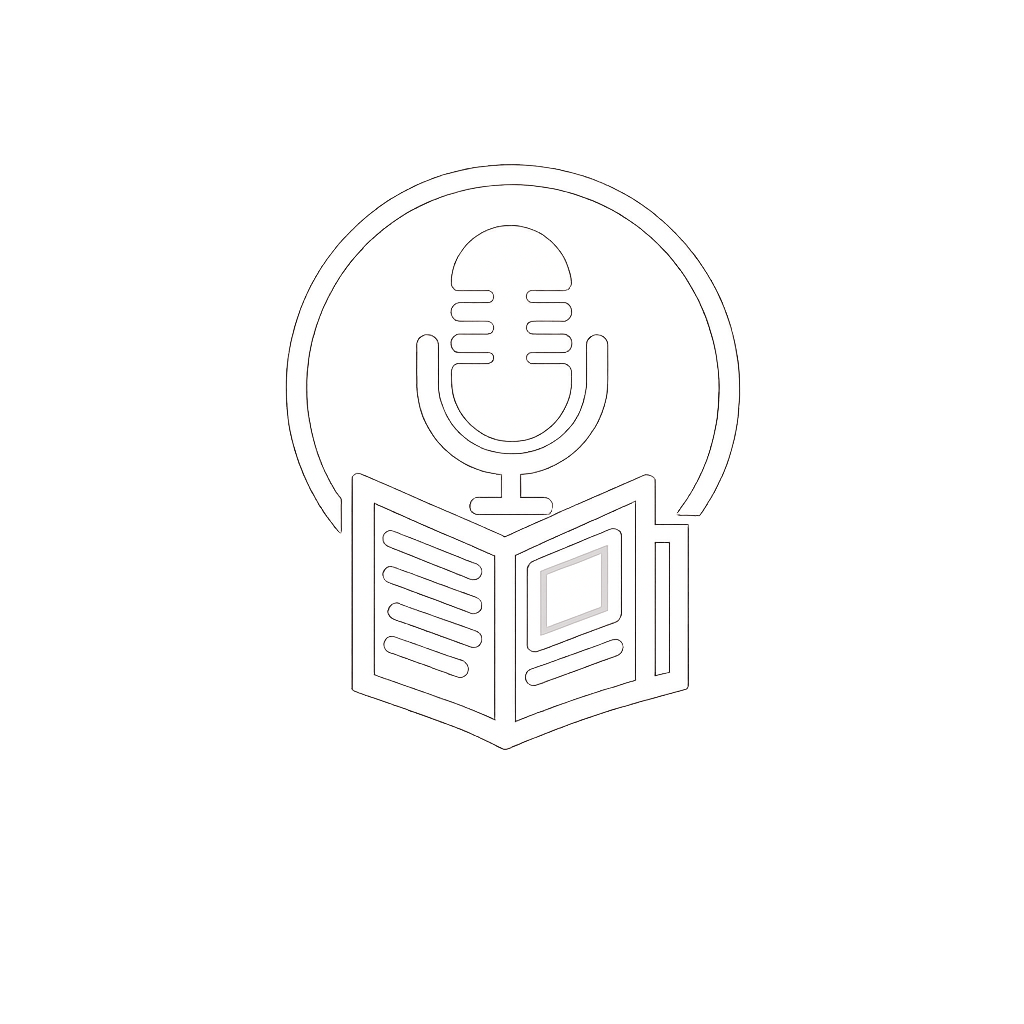
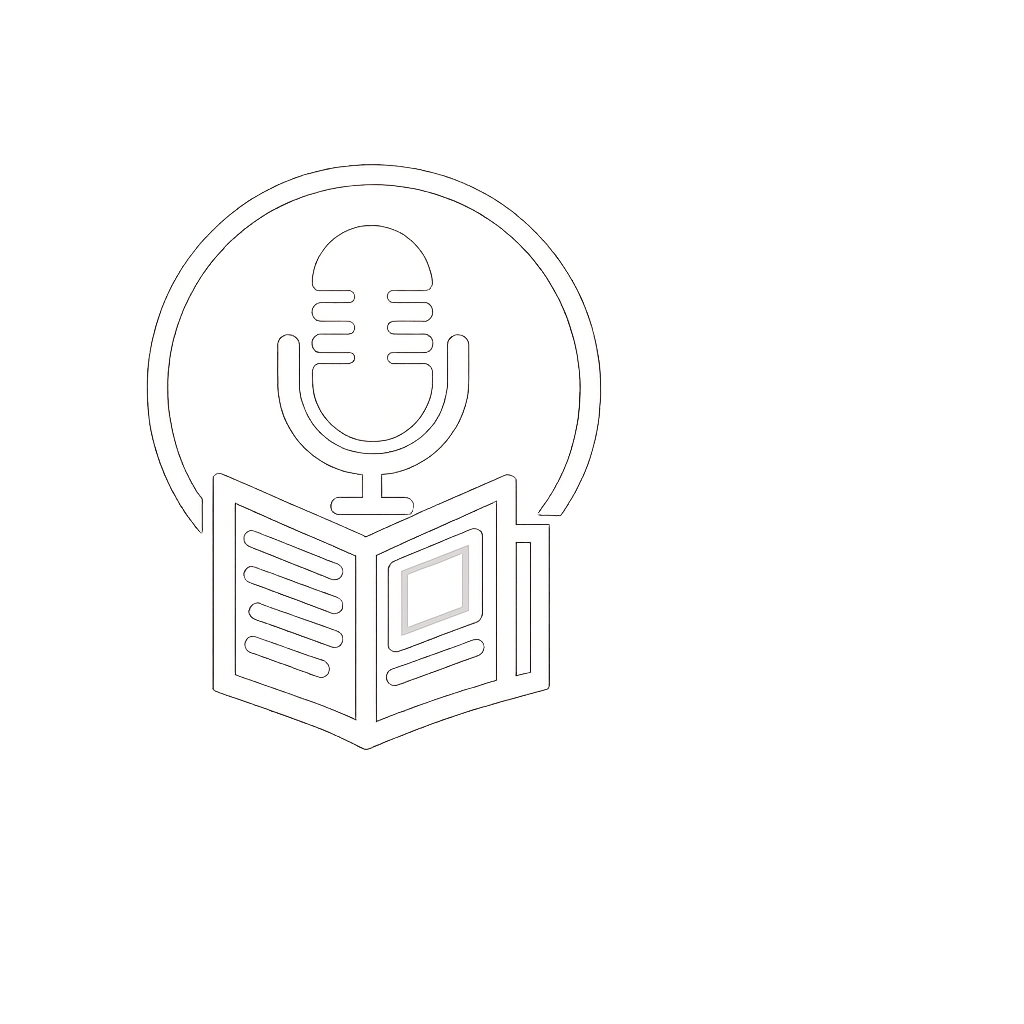
backup

diff --git a/desktop/src/main/main.ts b/desktop/src/main/main.ts
@@ -100,6 +100,58 @@ function resolveMenuIconPath(): string | undefined {
   return candidates.find((p) => fs.existsSync(p));
 }
 
+function cropMenuIconToLogo(image: Electron.NativeImage): Electron.NativeImage {
+  const { width, height } = image.getSize();
+  const bitmap = Buffer.from(image.getBitmap());
+  const alphaThreshold = 10;
+
+  let minX = width;
+  let minY = height;
+  let maxX = -1;
+  let maxY = -1;
+
+  for (let y = 0; y < height; y += 1) {
+    for (let x = 0; x < width; x += 1) {
+      const idx = (y * width + x) * 4;
+      const alpha = bitmap[idx + 3];
+      if (alpha >= alphaThreshold) {
+        if (x < minX) minX = x;
+        if (y < minY) minY = y;
+        if (x > maxX) maxX = x;
+        if (y > maxY) maxY = y;
+      }
+    }
+  }
+
+  if (maxX < minX || maxY < minY) {
+    return image;
+  }
+
+  // Keep a healthy margin around the visible logo so the tray icon is not
+  // rendered too large. Center the crop on the logo itself rather than using
+  // the source image edges.
+  const cropMargin = 140;
+  const cropSide = Math.min(
+    width,
+    height,
+    Math.max(maxX - minX + 1, maxY - minY + 1) + cropMargin
+  );
+  const contentCenterX = (minX + maxX) / 2;
+  const contentCenterY = (minY + maxY) / 2;
+
+  let cropX = Math.round(contentCenterX - cropSide / 2);
+  let cropY = Math.round(contentCenterY - cropSide / 2);
+  cropX = Math.max(0, Math.min(width - cropSide, cropX));
+  cropY = Math.max(0, Math.min(height - cropSide, cropY));
+
+  return image.crop({
+    x: cropX,
+    y: cropY,
+    width: cropSide,
+    height: cropSide,
+  });
+}
+
 function createTray(): void {
   const menuIconPath = resolveMenuIconPath();
   let trayIcon: Electron.NativeImage;
@@ -107,7 +159,19 @@ function createTray(): void {
   // Use the dedicated menu-bar icon asset.
   if (menuIconPath) {
     const sourceIcon = nativeImage.createFromPath(menuIconPath);
-    trayIcon = sourceIcon.resize({ width: 36, height: 36 });
+    const croppedIcon = cropMenuIconToLogo(sourceIcon);
+    const TRAY_ICON_SIZE = 24;
+    trayIcon = nativeImage.createEmpty();
+    for (const scaleFactor of [1, 2]) {
+      const px = TRAY_ICON_SIZE * scaleFactor;
+      const resized = croppedIcon.resize({ width: px, height: px, quality: "best" });
+      trayIcon.addRepresentation({
+        scaleFactor,
+        width: px,
+        height: px,
+        buffer: resized.toPNG(),
+      });
+    }
   } else {
     trayIcon = nativeImage.createEmpty();
   }

diff --git a/desktop/frontend/src/app/HomeClient.tsx b/desktop/frontend/src/app/HomeClient.tsx
@@ -955,7 +955,7 @@ export default function Home() {
     return (
       <div className={`w-full min-h-screen bg-gradient-to-br from-indigo-900/90 to-purple-900/90 text-white ${isTauri ? 'mt-8' : ''}`}>
         <header className=" backdrop-blur-md ">
-          <div className="container mx-auto px-4 py-4 flex justify-between items-center">
+          <div className="w-full px-2 sm:px-4 py-4 flex justify-between items-center">
             <div className="flex items-center gap-2">
               {/* <Link href="/" className="text-2xl font-bold text-white">BriefCast</Link> */}
             </div>
@@ -977,7 +977,7 @@ export default function Home() {
             </div>
           </div>
         </header>
-        <main className="h-screen container max-w-6xl mx-auto px-4 pt-4 pb-12 relative z-10">
+        <main className="h-screen w-full px-0 pt-4 pb-12 relative z-10">
         {/* {!isTauri &&
           <h1 className="text-4xl font-bold mb-12 text-center bg-gradient-to-r from-amber-500 to-amber-600 text-transparent bg-clip-text">
             BriefCast
@@ -1114,8 +1114,8 @@ export default function Home() {
       {/* <main className="container max-w-6xl mx-auto px-4 py-12 relative z-10"> */}
       <div className={`w-full min-h-screen bg-gradient-to-br from-indigo-900/90 to-purple-900/90 text-white ${isTauri ? 'mt-8' : ''}`}>
         <header className=" backdrop-blur-md ">
-          <div className="container mx-auto px-4 py-4 flex justify-between items-center">
-            <div className="flex items-center gap-2 ml-16">
+          <div className="w-full px-2 sm:px-4 py-4 flex justify-between items-center">
+            <div className="flex items-center gap-2">
               {/* <Link href="/" className="text-2xl font-bold text-white">BriefCast</Link> */}
             </div>
             <div className="flex items-center gap-4">
@@ -1136,14 +1136,14 @@ export default function Home() {
             </div>
           </div>
         </header>
-        <main className="container max-w-6xl mx-auto px-4 pt-4 pb-12 relative z-10">
+        <main className="w-full px-0 pt-4 pb-12 relative z-10">
         {/* {!isTauri &&
           <h1 className="text-4xl font-bold mb-12 text-center bg-gradient-to-r from-amber-500 to-amber-600 text-transparent bg-clip-text">
             BriefCast
           </h1>} */}
           
           <div 
-            className="backdrop-blur-xl bg-gradient-to-br from-black/10 to-black/30 rounded-2xl p-8 mx-auto border border-white/20 shadow-lg"
+            className="w-full backdrop-blur-xl bg-gradient-to-br from-black/10 to-black/30 rounded-none p-4 border border-white/20 shadow-lg"
             style={{
               boxShadow: `0 20px 50px rgba(0,0,0,0.3), 
                           0 -5px 20px rgba(${colors.primary.match(/\d+/g)?.[0] || 0}, 
@@ -1152,14 +1152,14 @@ export default function Home() {
               backdropFilter: "blur(20px)",
             }}
           >
-            <div className="grid grid-cols-1 md:grid-cols-2 gap-8 relative ">
+            <div className="grid grid-cols-1 md:grid-cols-2 gap-4 relative">
               {/* Player View */}
               {(mobileView === 'player' || window.innerWidth >= 768) && (
                 <div ref={playerContainerRef} className="mb-10 md:mb-0 relative pb-16 md:pb-0">
                   <div className="flex-grow">
                     <div className="flex flex-col gap-6 mb-6">
                       {/* Cover image */}
-                      <div className="relative group w-full max-w-md mx-auto aspect-square overflow-hidden rounded-xl shadow-xl">
+                      <div className="relative group w-full aspect-square overflow-hidden rounded-xl shadow-xl">
                         <Image
                           src={getCoverImageUrl(displayImage)}
                           alt={`${displayTitle} Cover`}

diff --git a/desktop/frontend/src/app/layout.tsx b/desktop/frontend/src/app/layout.tsx
@@ -3,7 +3,6 @@ import { Suspense, useEffect, useState } from 'react';
 import { PlayerProvider } from '@/context/PlayerContext';
 import { backendUrl } from '@/utils/backendUrl';
 import './globals.css';
-import { Inter } from 'next/font/google';
 
 // Electron passes --localstorage-file to its Node.js runtime. When that flag
 // has no valid path (e.g. during Next.js SSR), it installs a broken
@@ -15,8 +14,6 @@ if (typeof globalThis !== 'undefined') {
     try { delete (globalThis as any).localStorage; } catch (_) {}
   }
 }
-
-const inter = Inter({ subsets: ['latin'] });
 
 function ProviderStatusBanner() {
   const [warning, setWarning] = useState<string | null>(null);
@@ -50,7 +47,7 @@ export default function RootLayout({
 }) {
   return (
     <PlayerProvider>
-      <html lang="en" className="h-full w-full rounded-2xl">
+      <html lang="en" className="h-full w-full">
         <head>
           <meta name="viewport" content="width=device-width, initial-scale=1, user-scalable=no" />
           <meta name="apple-mobile-web-app-capable" content="yes" />
@@ -60,10 +57,10 @@ export default function RootLayout({
           <meta httpEquiv="Pragma" content="no-cache" />
           <meta httpEquiv="Expires" content="0" />
         </head>
-        <body className="h-full w-full bg-white">
+        <body className="h-full w-full bg-white overflow-hidden">
           <ProviderStatusBanner />
           <div className="electron-drag-region" aria-hidden="true" />
-          <div className="h-full w-full bg-white shadow-xl flex flex-col rounded-2xl">
+          <div className="h-full w-full bg-white flex flex-col">
             <div className="flex-1 overflow-y-auto">
               <Suspense fallback={<div>Loading...</div>}>
                 {children}

diff --git a/desktop/frontend/src/app/downloads/page.tsx b/desktop/frontend/src/app/downloads/page.tsx
@@ -365,7 +365,7 @@ export default function DownloadsPage() {
   return (
     <div className={`min-h-screen bg-gradient-to-br from-indigo-900/90 to-purple-900/90 text-white ${tauri ? 'mt-8' : ''}`}>
       <header className="bg-white/10 backdrop-blur-md shadow-lg">
-        <div className="container mx-auto px-4 py-4 flex justify-between items-center">
+        <div className="w-full px-2 sm:px-4 py-4 flex justify-between items-center">
           <div className="flex items-center gap-2">
             {/* <Link href="/" className="text-2xl font-bold text-white">BriefCast</Link> */}
           </div>
@@ -379,10 +379,10 @@ export default function DownloadsPage() {
         </div>
       </header>
       
-      <main className="container mx-auto px-4 py-8">
+      <main className="w-full px-2 sm:px-4 lg:px-6 py-8">
         {/* Search Bar */}
         <div className="mb-8">
-          <div className="relative max-w-2xl mx-auto">
+          <div className="relative w-full">
             <input
               type="text"
               placeholder="Search your downloads..."

diff --git a/desktop/frontend/src/app/history/page.tsx b/desktop/frontend/src/app/history/page.tsx
@@ -177,7 +177,7 @@ export default function HistoryPage() {
   return (
     <div className={`min-h-screen bg-gradient-to-br from-indigo-900/90 to-purple-900/90 text-white`}>
       <header className="bg-white/10 backdrop-blur-md shadow-lg">
-        <div className="container mx-auto px-4 py-4 flex justify-between items-center">
+        <div className="w-full px-2 sm:px-4 py-4 flex justify-between items-center">
           <div className="flex items-center gap-2">
             {/* <Link href="/" className="text-2xl font-bold text-white">BriefCast</Link> */}
           </div>
@@ -191,10 +191,10 @@ export default function HistoryPage() {
         </div>
       </header>
       
-      <main className="container mx-auto px-4 py-8">
+      <main className="w-full px-2 sm:px-4 lg:px-6 py-8">
         {/* Search Bar */}
         <div className="mb-8">
-          <div className="relative max-w-2xl mx-auto">
+          <div className="relative w-full">
             <input
               type="text"
               placeholder="Search your history..."

diff --git a/desktop/frontend/src/app/library/page.tsx b/desktop/frontend/src/app/library/page.tsx
@@ -477,7 +477,7 @@ export default function LibraryPage() {
   return (
     <div className={`min-h-screen bg-gradient-to-br from-indigo-900/90 to-purple-900/90 text-white`}>
       <header className="bg-white/10 backdrop-blur-md shadow-lg">
-        <div className="container mx-auto px-4 py-4 flex justify-between items-center">
+        <div className="w-full px-2 sm:px-4 py-4 flex justify-between items-center">
           <div className="flex items-center gap-2">
             {/* <Link href="/" className="text-2xl font-bold text-white">BriefCast</Link> */}
           </div>
@@ -491,10 +491,10 @@ export default function LibraryPage() {
         </div>
       </header>
       
-      <main className="container mx-auto px-4 py-8">
+      <main className="w-full px-2 sm:px-4 lg:px-6 py-8">
         {/* Search Bar with Trending Dropdown */}
         <div className="mb-8">
-          <div className="relative max-w-2xl mx-auto">
+          <div className="relative w-full">
             <input
               type="text"
               placeholder="Search podcasts..."

diff --git a/desktop/frontend/src/app/dashboard/account.tsx b/desktop/frontend/src/app/dashboard/account.tsx
@@ -137,7 +137,7 @@ export default function AccountPage( {username, setUsername, isTauri}: {username
   }
 
   return (
-    <div className="container mx-auto px-3 py-4">
+    <div className="w-full px-2 sm:px-4 py-4">
         {/* Header */}
         <div className="text-center mb-4">
           <h1 className="text-2xl font-bold text-white mb-1">My Account</h1>
@@ -169,7 +169,7 @@ export default function AccountPage( {username, setUsername, isTauri}: {username
         </div>
 
         {/* Content */}
-        <div className="max-w-4xl mx-auto">
+        <div className="w-full">
           {activeTab === 'profile' && (
             <div className="bg-white/10 backdrop-blur-md rounded-lg p-4 shadow-xl">
               <h2 className="text-lg font-bold text-white mb-4 flex items-center">

diff --git a/desktop/frontend/src/app/dashboard/server.tsx b/desktop/frontend/src/app/dashboard/server.tsx
@@ -245,7 +245,7 @@ export default function ServerConfigPage({ isTauri }: { isTauri: boolean }) {
 
   // ── Render ────────────────────────────────────────────────────────────────────
   return (
-    <div className="container mx-auto px-3 py-4">
+    <div className="w-full px-2 sm:px-4 py-4">
       {/* Header */}
       <div className="text-center mb-4">
         <h1 className="text-2xl font-bold text-white mb-1">Server Configuration</h1>
@@ -427,7 +427,7 @@ export default function ServerConfigPage({ isTauri }: { isTauri: boolean }) {
               <div className="animate-spin rounded-full h-8 w-8 border-b-2 border-amber-400" />
             </div>
           ) : (
-            <div className="space-y-4 max-w-2xl mx-auto">
+            <div className="space-y-4 w-full">
 
               {/* AI Provider */}
               <div className={sectionCls}>

diff --git a/desktop/frontend/src/app/settings/page.tsx b/desktop/frontend/src/app/settings/page.tsx
@@ -158,7 +158,7 @@ export default function SettingsPage() {
   return (
      <div className={`min-h-screen bg-gradient-to-br from-indigo-900/90 to-purple-900/90 text-white`}>
       <header className="bg-white/10 backdrop-blur-md shadow-lg">
-        <div className="container mx-auto px-4 py-4 flex justify-between items-center">
+        <div className="w-full px-2 sm:px-4 py-4 flex justify-between items-center">
           <div className="flex items-center gap-2">
             {/* <Link href="/" className="text-2xl font-bold text-white">BriefCast</Link> */}
           </div>
@@ -173,7 +173,7 @@ export default function SettingsPage() {
         </div>
       </header>
 
-      <main className="container max-w-2xl mx-auto px-4 py-8 space-y-5">
+      <main className="w-full px-2 sm:px-4 lg:px-6 py-8 space-y-5">
         <div>
           <h1 className="text-2xl font-bold">Settings</h1>
           <p className="text-white/60 text-sm mt-1">Configure providers, TTS, sources and preferences</p>